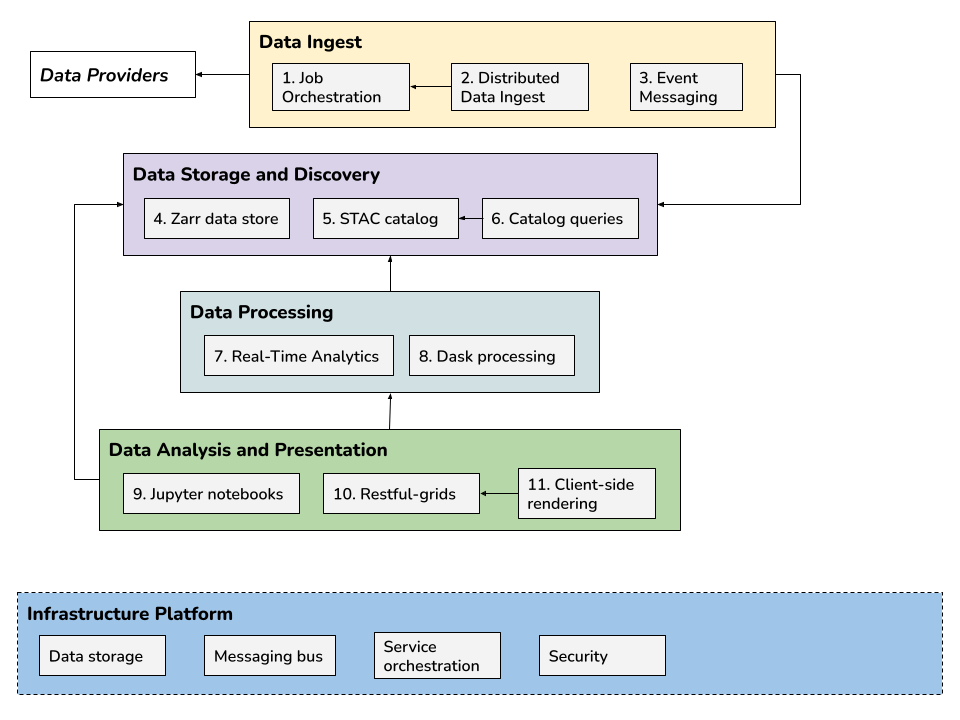
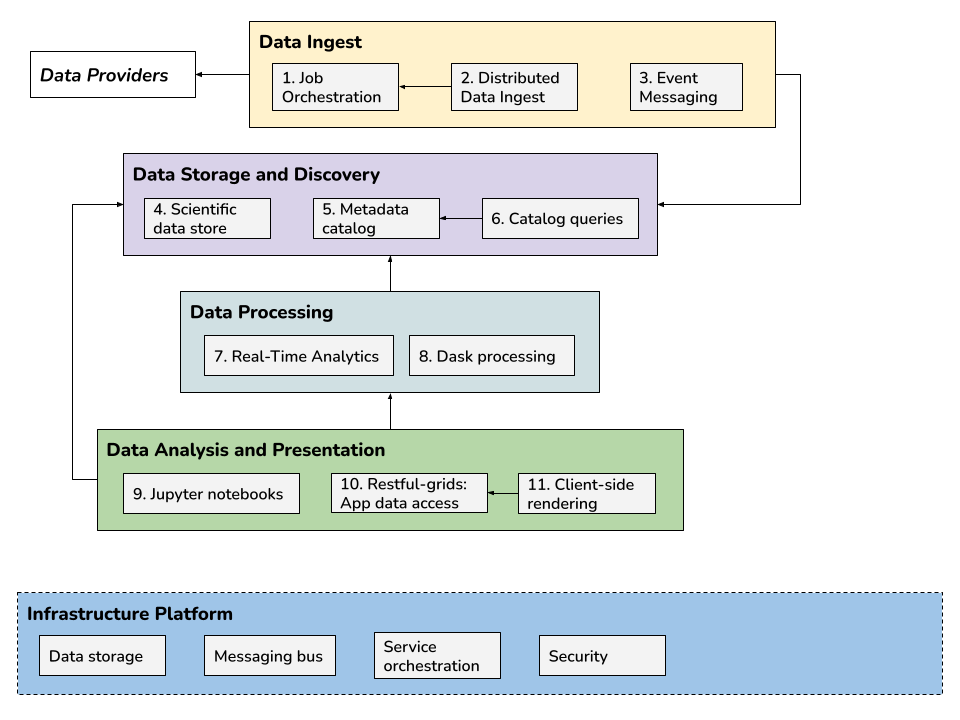
Updated diagram and prototype names

diff --git a/README.md b/README.md
@@ -19,7 +19,7 @@ The planned prototypes seek to demonstrate a modern, interconnected system. Visi
 
 **[Data Storage and Discovery](https://asascience-open.github.io/nextgen-dmac/metadata/storage-and-discovery.html)**
 
-4.  [Raw data store](https://asascience-open.github.io/nextgen-dmac/metadata/data-formats.html)
+4.  [Scientific data store](https://asascience-open.github.io/nextgen-dmac/metadata/data-formats.html)
 5.  [Metadata Catalog](https://asascience-open.github.io/nextgen-dmac/metadata/catalog.html)
 6.  [Catalog Queries](https://asascience-open.github.io/nextgen-dmac/metadata/queries.html)
 

diff --git a/docs/index.md b/docs/index.md
@@ -23,7 +23,7 @@ The planned prototypes seek to demonstrate a modern, interconnected system. Visi
 
 **[Data Storage and Discovery](metadata/storage-and-discovery.md)**
 
-4.  [Raw data store](metadata/data-formats.md)
+4.  [Scientific data store](metadata/data-formats.md)
 5.  [Metadata Catalog](metadata/catalog.md)
 6.  [Catalog Queries](metadata/queries.md)
 
